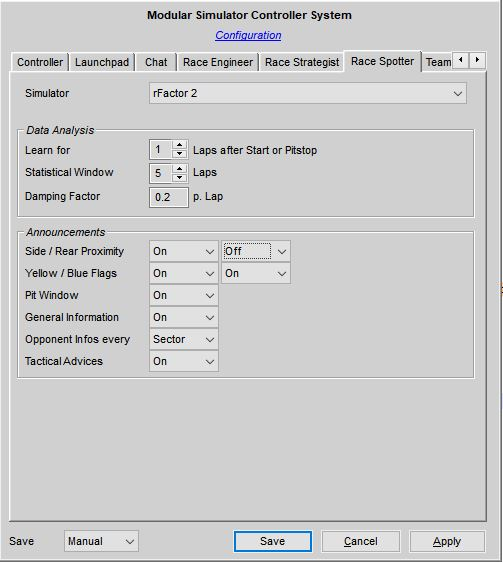
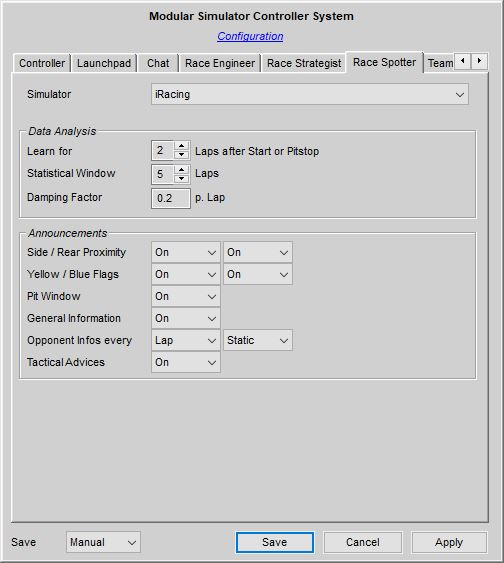
Configurable Spotter delta calculation methods

diff --git a/Docs/Using Simulator Controller.md b/Docs/Using Simulator Controller.md
@@ -16,7 +16,7 @@ Before starting up, *Simulator Startup* checks the configuration information. If
 
 ![](https://github.com/SeriousOldMan/Simulator-Controller/blob/main/Docs/Images/Settings%20Editor.JPG)
 
-With this editor, which can also be opened by clicking on the small button with the gear icon in th upper right corner of the window of *Simulator Startup*, you can change the runtime settings for Simulator Controller. In contrast to the general configuration, which configures all required and optional components of your simulation rig, you decide here which of them you want to use for the next run and onward and how they should behave. Please note, that you can click on the blue label of the dialog title, which will open this documentation in your browser.
+With this editor, which can also be opened by clicking on the small button with the gear icon in the upper right corner of the window of *Simulator Startup*, you can change the runtime settings for Simulator Controller. In contrast to the general configuration, which configures all required and optional components of your simulation rig, you decide here which of them you want to use for the next run and onward and how they should behave. Please note, that you can click on the blue label of the dialog title, which will open this documentation in your browser.
 
 Beside maintaining this startup settings, you can jump to the [configuration tool](https://github.com/SeriousOldMan/Simulator-Controller/wiki/Installation-&-Configuration#configuration) by clicking on the button "Configuration...". This might be helpful, if you detect an error in your simulation rig configuration or if you want to add a new simulation game, you just installed on your PC.
 

diff --git a/Docs/Virtual Race Spotter.md b/Docs/Virtual Race Spotter.md
@@ -71,6 +71,16 @@ The Spotter will give you critical and in most cases real time information about
 8. Delta Information
 
    Elisa observes your direct opponents behind and in front of you and informs you, whether you can catch up the car in front or whether you need to pay attention to the car behind you. Please take a look at the dedicated section about [Opponent and Delta Information](https://github.com/SeriousOldMan/Simulator-Controller/wiki/Virtual-Race-Spotter#opponent-and-delta-information) down below for more detailed information.
+   
+   There are two methods available for this information:
+   
+   - Static
+   
+     This calculation method is quite simple and uses only the direct delta information provided by the simulation. It will simply you provide you with the current gap to your opponent in front and the one behind. This method is precise but you must calculate on your own whether you have catched up or lost upon your opponent.
+
+   - Dynamic
+   
+     This method uses a complex traffic model and keeps track off all cars regarding their current position and specific deltas to your car. You will get much more information, for example, how much time you have lost on the car ahead during the last laps. But this model will fail in turbulent traffic situations especially in the beginning of the race or in sprint races with lots of fights and overtakes and you might get wrong deltas in those situations.
 
 9. Tactical Advices
 

diff --git a/Docs/Releases.md b/Docs/Releases.md
@@ -1,3 +1,11 @@
+## 4.3.5.0-release 10/14/22 (planned)
+
+  1. Minor bugfixes, as always
+  2. Documentation updates, as always
+  3. UI specific settings, which are managed by the app "Simulator Settings", are now directly available from "Simulator Startup". See the [revised documentation](https://github.com/SeriousOldMan/Simulator-Controller/wiki/Using-Simulator-Controller#customizing-startup-configuration) for more information.
+  4. You can now choose between different methods for delta calculations for the Virtual Race Spotter. See the [revised documentation](https://github.com/SeriousOldMan/Simulator-Controller/wiki/Virtual-Race-Spotter#alerts--information) for more information.
+  
+
 ## 4.3.4.0-release 09/30/22 (planned)
 
   1. Minor bugfixes, as always
